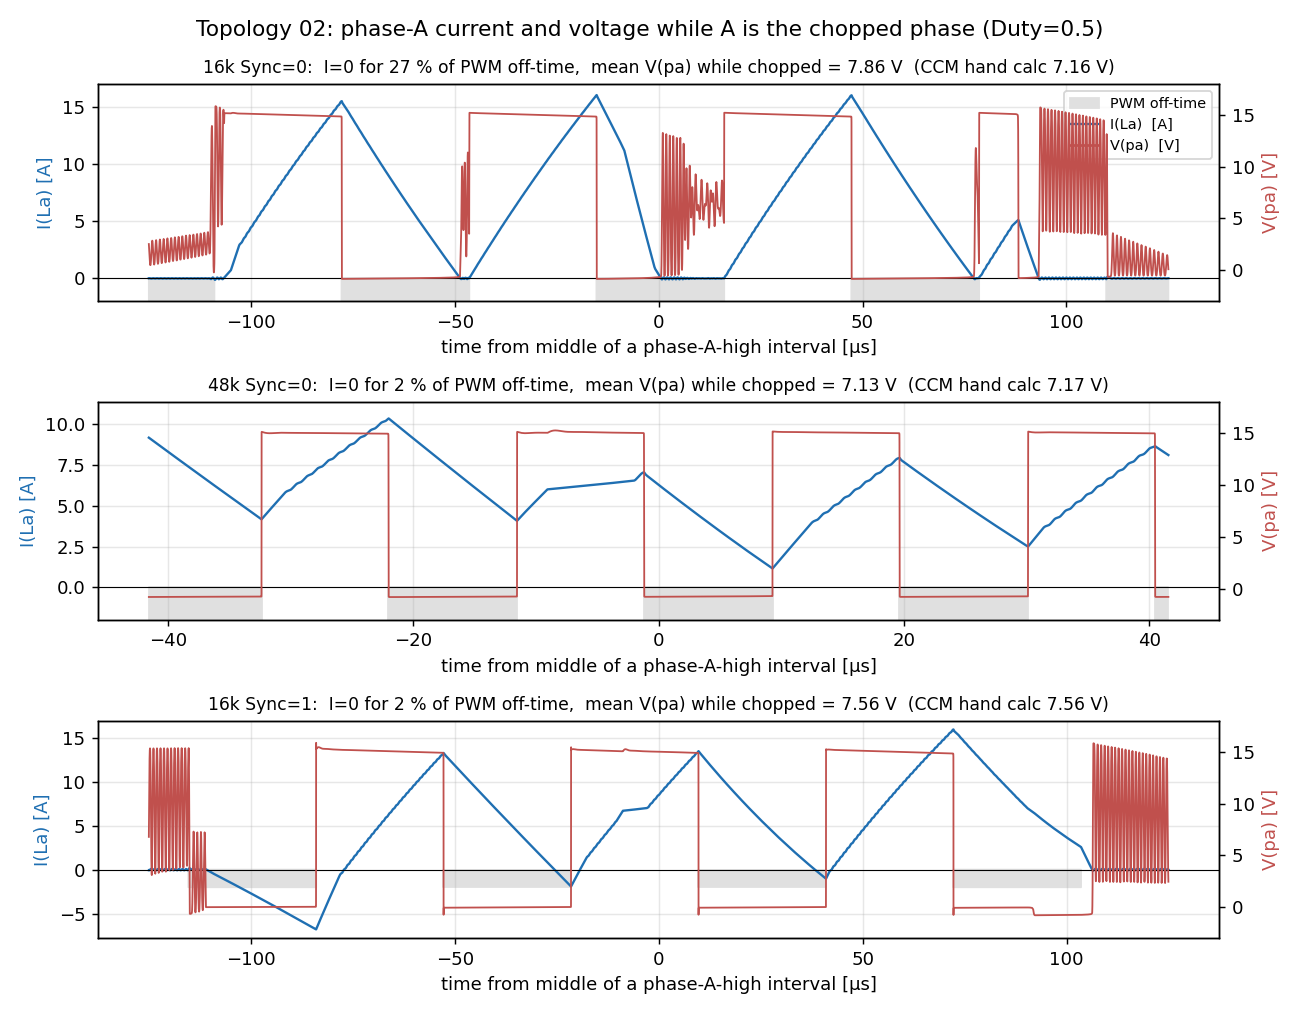
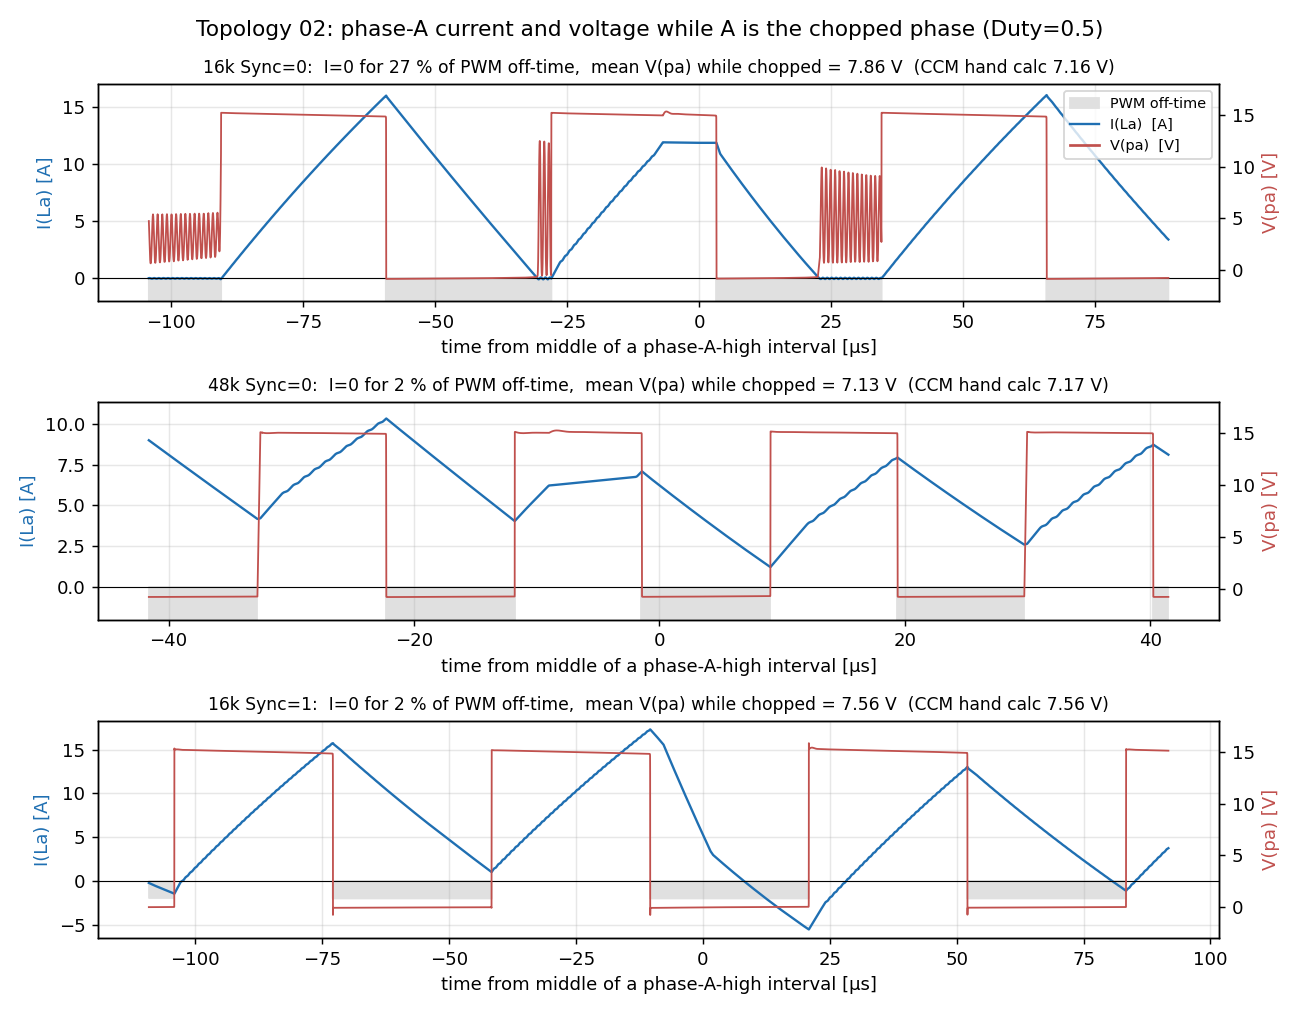
Topology 02: correct DCM speed claim, duty-summary guess and plot window
- README: the +0.70 V from DCM does not "match" the speed rise; a
  small-signal hand calc predicts +1,345 RPM vs +1,068 RPM simulated
  (~25 % high), stated as not yet explained.
- duty SUMMARY: the 18 % hand-calc error at Duty=0.3 was attributed to
  ripple without support; now marked unexplained, with one candidate and
  how to test it.
- check_dcm.py: clip the waveform window to one phase-A-high interval;
  at 16 kHz the old window showed phase A floating, which is not DCM.
  Numbers unchanged.

diff --git a/Topologies/02_Three-Phase_ESC_BLDC_6-Step/check_dcm.py b/Topologies/02_Three-Phase_ESC_BLDC_6-Step/check_dcm.py
@@ -65,10 +65,14 @@ def analyse(fsw_s, sync):
              va_high=np.average(va[a_high], weights=w[a_high]),      # mean applied phase voltage while A is high
              vbus=np.average(vbus, weights=w))
     r["v_ccm_hand"] = DUTY * r["vbus"] - (1 - DUTY) * (0.8 if sync == "0" else 0.0)
-    # waveform snippet: 4 PWM periods centred on the middle of an A-high interval near the end
-    k = np.where(a_high & (np.sin(the) > 0.995))[0][-1]
+    # waveform snippet: up to 4 PWM periods centred on the middle of a complete A-high interval near the end,
+    # clipped to that interval (at 16 kHz the interval, 120 electrical degrees, is only ~3 PWM periods long; outside it
+    # phase A is floating or is the low phase, and its ringing there is not DCM)
+    k = np.where(a_high & (np.sin(the) > 0.995) & (t < T1 - 0.5e-3))[0][-1]
+    lo = k - np.argmin(a_high[k::-1])          # first index of this A-high run
+    hi = k + np.argmin(a_high[k:])             # one past its last index
     tc = t[k]
-    s = (t > tc - 2 / fsw) & (t < tc + 2 / fsw)
+    s = (t > max(tc - 2 / fsw, t[lo])) & (t < min(tc + 2 / fsw, t[hi - 1]))
     r["wave"] = dict(t=(t[s] - tc) * 1e6, i=i[s], v=va[s], on=pwm_on[s])
     return r
 

diff --git a/Topologies/02_Three-Phase_ESC_BLDC_6-Step/sweeps/duty_sync/SUMMARY.md b/Topologies/02_Three-Phase_ESC_BLDC_6-Step/sweeps/duty_sync/SUMMARY.md
@@ -68,10 +68,12 @@ The saving is the diode drop minus the FET drop over that time:
 
 The saving first grows with current, then collapses at Duty = 0.9 because the off-time shrinks to 10 %. The ratio
 also falls because the *other* low-side loss, the low phase's FET that is on for the whole 120° interval,
-grows as I²·R_on in both modes and does not change with Sync. The hand calc is 18 % high at Duty = 0.3 because the
-ripple there (about 4.4 A p-p at 48 kHz) is larger than the 2.8 A average. The current nearly reaches zero during
-the off-time, so the diode conducts less than the formula assumes (the same discontinuous-conduction effect that
-`check_dcm.py` shows at 16 kHz).
+grows as I²·R_on in both modes and does not change with Sync. The hand calc agrees within 1–7 % for Duty ≥ 0.5 but is
+**18 % high at Duty = 0.3, and the cause is not yet known.** Ripple alone does not explain it: while the current stays
+continuous, the diode's average current over the off-time is still I, whatever the ripple. One candidate: the ripple
+at Duty = 0.3 (Vbus·D(1−D)/(2·Lph·Fsw) ≈ 4.4 A p-p, so ±2.2 A around 2.8 A) brings the current within about 0.6 A of
+zero, so commutation transients could make it touch zero briefly. (Dead time is not a good candidate: 100 ns is only
+0.5 % of a 48 kHz period.) To settle it, rerun Duty = 0.3 with `--keep-raw` and apply the `check_dcm.py` analysis (I = 0 share of the off-time).
 
 All simulated values above are from `results.csv`; deltas, ratios and percentage-point differences are arithmetic
 on those entries. The hand-calc column uses the schematic's ESC_FET model parameters.

diff --git a/Topologies/02_Three-Phase_ESC_BLDC_6-Step/README.md b/Topologies/02_Three-Phase_ESC_BLDC_6-Step/README.md
@@ -76,9 +76,18 @@ What it teaches:
 
    | Case (phase A chopped) | I = 0 during PWM off-time | I < 0 | mean V(pa) | CCM hand calc D·Vbus − (1−D)·Vdiode |
    |---|---|---|---|---|
-   | 16 kHz, Sync=0 | **27 %** | 0 % | **7.86 V** | 7.16 V (+0.70 V, i.e. +10 %: matches the +8 % speed) |
+   | 16 kHz, Sync=0 | **27 %** | 0 % | **7.86 V** | 7.16 V (+0.70 V, i.e. +10 %) |
    | 48 kHz, Sync=0 | 2 % | 0 % | 7.13 V | 7.17 V |
    | 16 kHz, Sync=1 | 2 % | 13 % | 7.56 V | 7.56 V (no diode drop) |
+
+   Is +0.7 V enough to explain the speed? Small-signal hand calc around 13,706 RPM:
+   dV/dω = Ke + 2·Rph·(2·Kprop·ω + Bfric)/Ke = 4.97 mV per rad/s, so +0.70 V predicts **+1,345 RPM**. LTspice gives
+   **+1,068 RPM** (14,774 vs 13,706). The direction and size agree, but the hand calc is about 25 % high. It treats the
+   16 kHz case as the 48 kHz one plus a voltage step and ignores everything else that changes at 16 kHz (for example the
+   larger ripple copper loss). That part is not yet explained.
+
+   The plot shows only the time inside one phase-A-high interval (120°, about 193 µs at 16 kHz). Outside it phase A
+   floats or is the low phase, and its ringing there is not DCM.
 
    ![dcm check](sweeps/dcm_check/dcm_check.png)
 
